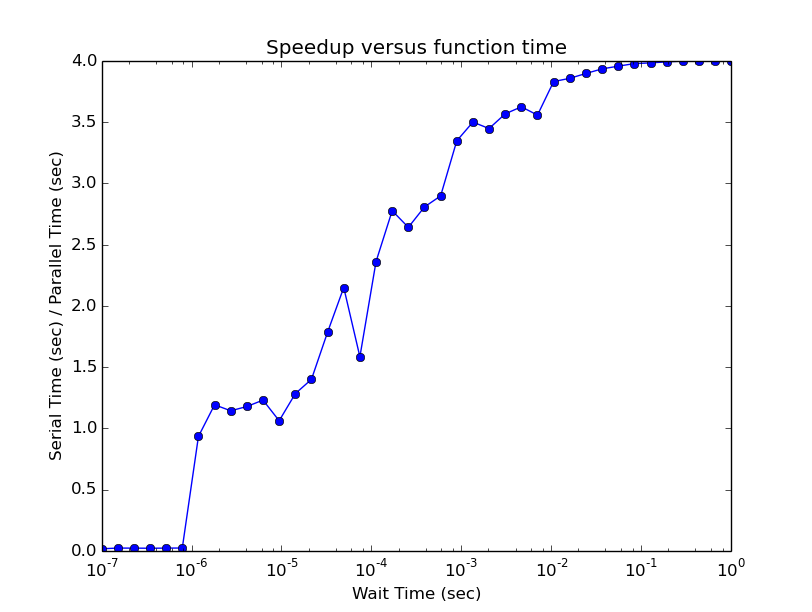
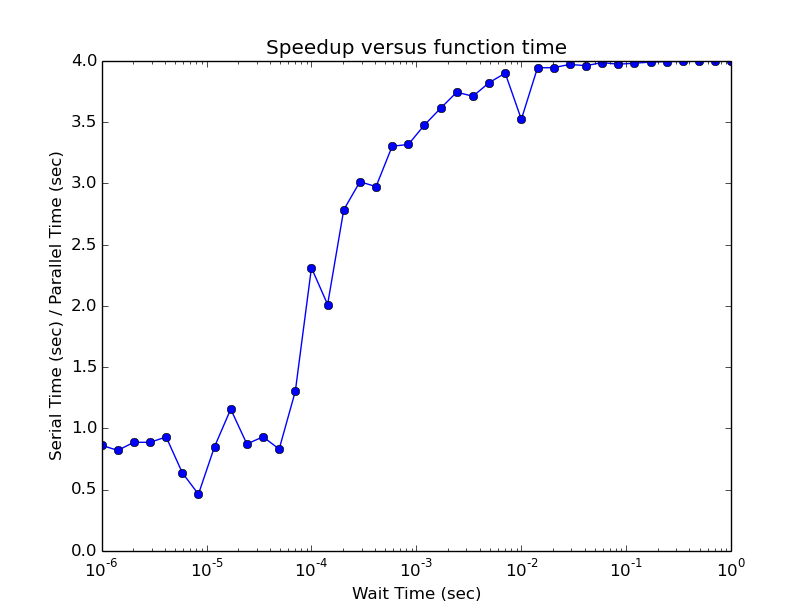
Fixes to Q6

diff --git a/HW0/P6/P6B.py b/HW0/P6/P6B.py
@@ -19,7 +19,7 @@ if __name__ == '__main__':
     # Use a variety of wait times
     ratio = []
     # place points at 40 locations between 10^-7 and 10^0
-    wait_time = np.logspace(np.log10(pow(10,-7)), np.log10(pow(10,0)), 40)
+    wait_time = np.logspace(np.log10(pow(10,-6)), np.log10(pow(10,0)), 40)
     print wait_time
     for t in wait_time:
         #print wait_time
